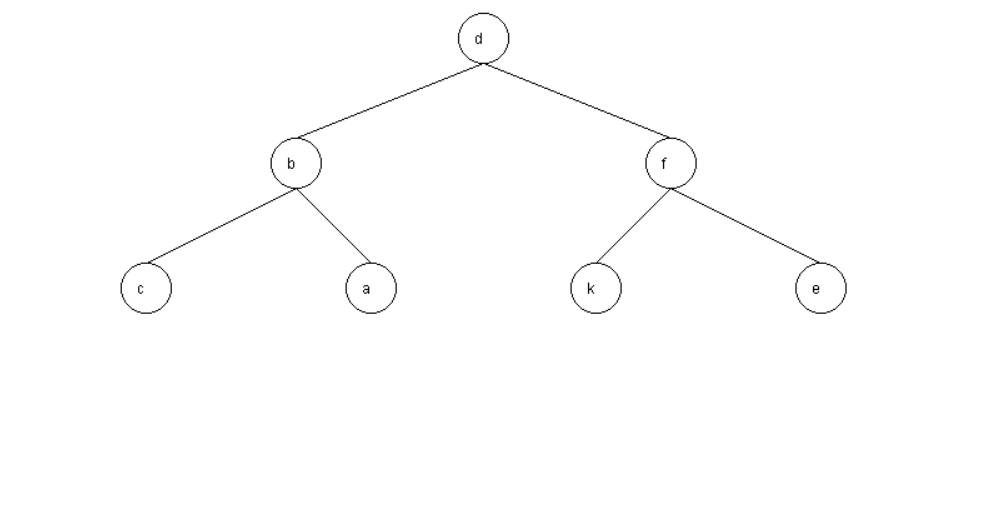
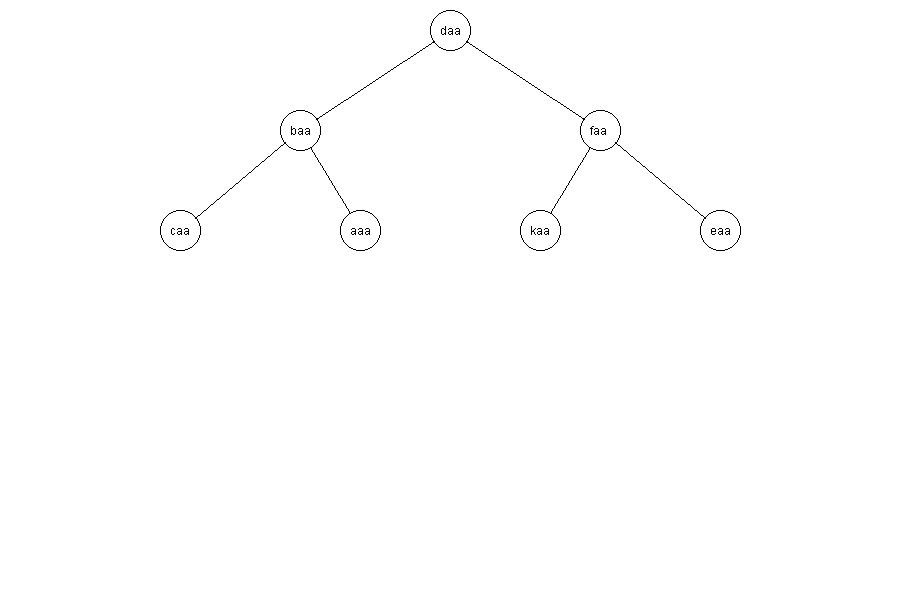
Edge lines between nodes and parents improved

diff --git a/src/binaryTree/BinaryTreeExporter.java b/src/binaryTree/BinaryTreeExporter.java
@@ -15,6 +15,7 @@ import java.io.*;
 import java.util.LinkedList;
 import java.util.List;
 import java.util.Properties;
+import java.util.regex.Matcher;
 import java.util.stream.Stream;
 
 public class BinaryTreeExporter {
@@ -76,20 +77,39 @@ public class BinaryTreeExporter {
                 Toplam WIDTH alanının, geçerli seviyedeki(level) node sayısı + 1'e bölümüne eşittir.
             */
             int leftMargin = IMAGE_WIDTH / (nodeCountAtLevel + 1);
+            //Yarıçap.
+            int radius = NODE_DIAMETER / 2;
 
-            node.setX(leftMargin * nodePosition - (NODE_DIAMETER / 2));
-            node.setY(topMargin - (NODE_DIAMETER / 2));
-            //Node'u çiz.
-            g2d.drawOval(node.getX(), node.getY(), NODE_DIAMETER, NODE_DIAMETER);
+            //Çemberin merkezi.
+            node.setX(leftMargin * nodePosition);
+            node.setY(topMargin);
+
+            /*
+                Node'u çember olarak çiz.
+                Graphics2d.drawOval fonksiyonu bir dikdörtgen çizip çemberi onun içine çiziğinden,
+                    fonksiyona direk çemberin merkezini veremiyoruz.
+                    Onun yerine çemberi içine alacak bir dörtgen koordinatı veriyoruz.
+                Merkezi koordinatlardan (node.getX, node.getY) radius kadar geri geldiğimizde
+                    istenilen dörtgenin sol üst noktasına varıyoruz.
+                Bu noktadan her iki yöne (x,y) NODE_DIAMETER kadar ilerlediğimizde, istediğimiz çemberi saran
+                    dörtgeni elde etmiş oluyoruz.
+             */
+            g2d.drawOval(node.getX() - radius, node.getY() - radius, NODE_DIAMETER, NODE_DIAMETER);
             //Node value string'ini çiz ve ortalamaya çalış.
-            g2d.drawString(node.getValue(),
-                    node.getX() + (NODE_DIAMETER / 3),
-                    node.getY() + (NODE_DIAMETER / 2) + 5);
+            int nodeValueLength = node.getValue().length();
+            g2d.drawString(node.getValue(), node.getX() - 5 * (nodeValueLength - 1), node.getY() + 5);
 
             //Node ile parent'ı arasındaki edge'i çiz.
             Node parent;
             if((parent = node.getParent()) != null){
-                g2d.drawLine(parent.getX() + (NODE_DIAMETER / 2), parent.getY() + NODE_DIAMETER, node.getX() + (NODE_DIAMETER / 2), node.getY());
+                double angle = Math.atan2(parent.getY() - node.getY(), parent.getX() - node.getX());
+                int x = (int)(radius * Math.cos(angle));
+                int y = (int)(radius * Math.sin(angle));
+
+                g2d.drawLine(parent.getX() - x,
+                        parent.getY() - y,
+                        node.getX() + x,
+                        node.getY() + y);
             }
         }
     }

diff --git a/src/binaryTree/Node.java b/src/binaryTree/Node.java
@@ -78,7 +78,6 @@ public class Node{
         point.setLocation(point.getX(), y);
     }
 
-
     @Override
     public String toString(){
         return value;
@@ -86,7 +85,11 @@ public class Node{
 
     @Override
     public boolean equals(Object other){
-        Node node = (Node) other;
-        return value.compareTo(node.getValue()) == 0;
+        if(other instanceof Node){
+            Node node = (Node) other;
+            return value.compareTo(node.getValue()) == 0;
+        }
+
+        return super.equals(other);
     }
 }
